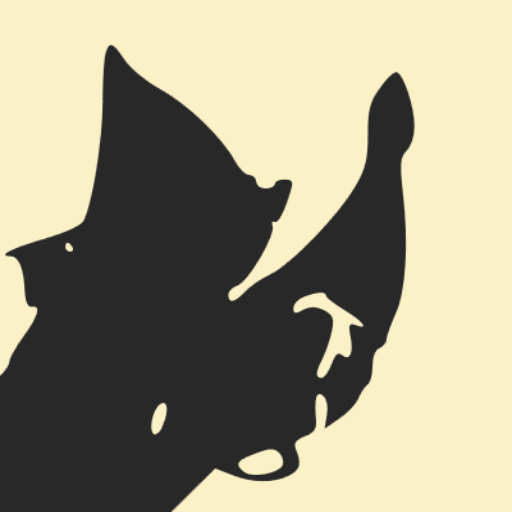
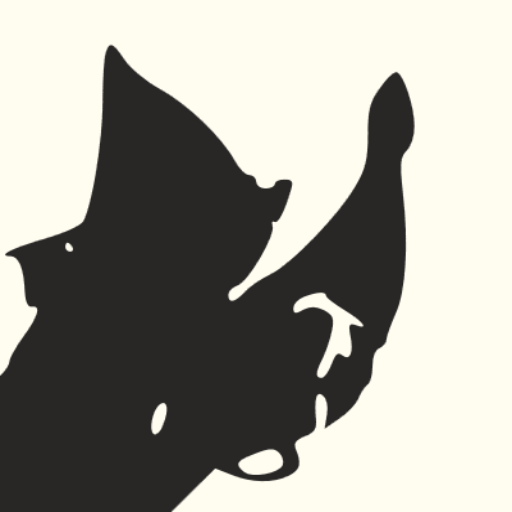
Updated to flexoki colors

diff --git a/static/js/driveway.js b/static/js/driveway.js
@@ -434,7 +434,7 @@ class DrivewayCalculator {
 
 		if (elements.willScrape) {
 			elements.willScrape.textContent = willScrape ? 'YES' : 'NO';
-			elements.willScrape.style.color = willScrape ? '#e74c3c' : '#27ae60';
+			elements.willScrape.style.color = willScrape ? '#AF3029' : '#536907';
 		}
 
 		if (elements.centerClearance) {
@@ -465,7 +465,7 @@ class DrivewayCalculator {
 	}
 
 	drawGround(angle, radius) {
-		this.ctx.strokeStyle = '#333';
+		this.ctx.strokeStyle = '#282726';
 		this.ctx.lineWidth = 3;
 		this.ctx.beginPath();
 
@@ -501,7 +501,7 @@ class DrivewayCalculator {
 			const k = -radius;
 
 			// Draw the transition circle (dashed)
-			this.ctx.strokeStyle = '#666';
+			this.ctx.strokeStyle = '#878580';
 			this.ctx.lineWidth = 1;
 			this.ctx.setLineDash([3, 3]);
 			this.ctx.beginPath();
@@ -516,7 +516,7 @@ class DrivewayCalculator {
 			this.ctx.setLineDash([]);
 
 			// Mark tangent points
-			this.ctx.fillStyle = '#e74c3c';
+			this.ctx.fillStyle = '#AF3029';
 			// Tangent on flat road (y = 0)
 			const tangentPoint1 = this.calculateHorizontalCircleEdge(radius, m);
 			this.ctx.beginPath();
@@ -540,7 +540,7 @@ class DrivewayCalculator {
 		}
 
 		// Fill ground
-		this.ctx.fillStyle = '#8b451388';
+		this.ctx.fillStyle = '#71320D88';
 		this.ctx.beginPath();
 		const minFillX = Math.max(-160, minX);
 		const maxFillX = Math.min(maxX, 100);
@@ -572,7 +572,7 @@ class DrivewayCalculator {
 		const frontWheelCenter = this.getWheelCenter(frontAxleX, angle, radius);
 
 		// Draw wheels
-		this.ctx.strokeStyle = '#333';
+		this.ctx.strokeStyle = '#282726';
 		this.ctx.lineWidth = 2;
 
 		// Rear wheel
@@ -598,7 +598,7 @@ class DrivewayCalculator {
 		this.ctx.stroke();
 
 		// Draw axle line
-		this.ctx.strokeStyle = '#666';
+		this.ctx.strokeStyle = '#878580';
 		this.ctx.lineWidth = 2;
 		this.ctx.beginPath();
 		this.ctx.moveTo(this.offsetX + rearWheelCenter.x * this.scale, this.offsetY - rearWheelCenter.y * this.scale);
@@ -606,7 +606,7 @@ class DrivewayCalculator {
 		this.ctx.stroke();
 
 		// Car body line
-		this.ctx.strokeStyle = '#4a90e2';
+		this.ctx.strokeStyle = '#205EA6';
 		this.ctx.lineWidth = 4;
 		this.ctx.beginPath();
 		this.ctx.moveTo(this.offsetX + rearWheelCenter.x * this.scale, this.offsetY - rearWheelCenter.y * this.scale);
@@ -614,7 +614,7 @@ class DrivewayCalculator {
 		this.ctx.stroke();
 
 		// Car bottom (dashed line)
-		this.ctx.strokeStyle = '#2c3e50';
+		this.ctx.strokeStyle = '#575653';
 		this.ctx.lineWidth = 2;
 		this.ctx.setLineDash([5, 5]);
 		this.ctx.beginPath();
@@ -646,7 +646,7 @@ class DrivewayCalculator {
 
 				if (actualClearance < 0) {
 					// Draw scraping indicator
-					this.ctx.fillStyle = '#e74c3c';
+					this.ctx.fillStyle = '#AF3029';
 					this.ctx.fillRect(
 						this.offsetX + x * this.scale - 2,
 						this.offsetY - bottomY * this.scale,
@@ -659,7 +659,7 @@ class DrivewayCalculator {
 	}
 
 	drawGrid() {
-		this.ctx.strokeStyle = '#ddd';
+		this.ctx.strokeStyle = '#DAD8CE';
 		this.ctx.lineWidth = 1;
 
 		// Calculate responsive grid spacing

diff --git a/static/js/bgg-collection-updater.js b/static/js/bgg-collection-updater.js
@@ -457,12 +457,12 @@ function addStyles() {
     }
 
     .collection-status.error {
-      background-color: rgba(255, 0, 0, 0.1);
-      color: #d32f2f;
+      background-color: rgba(175, 48, 41, 0.12);
+      color: var(--red);
     }
 
     .collection-status.success {
-      background-color: rgba(0, 255, 0, 0.05);
+      background-color: rgba(83, 105, 7, 0.10);
     }
 
     #updateCollection {

diff --git a/static/css/raw.css b/static/css/raw.css
@@ -3,7 +3,7 @@ pre {
   word-wrap: break-word;
   font-family: monospace;
   padding: 15px;
-  background: #f5f5f5;
+  background: #F2F0E5;
 }
 
 .skip-link {
@@ -12,8 +12,8 @@ pre {
   top: -3rem;
   z-index: 10;
   padding: 0.4rem 0.7rem;
-  background: #fbf1c7;
-  color: #282828;
+  background: #FFFCF0;
+  color: #282726;
 }
 
 .skip-link:focus {
